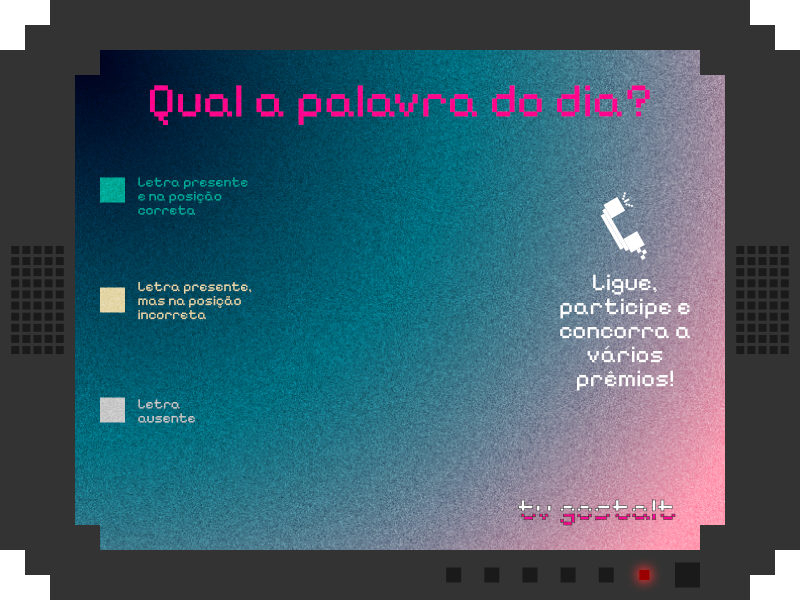
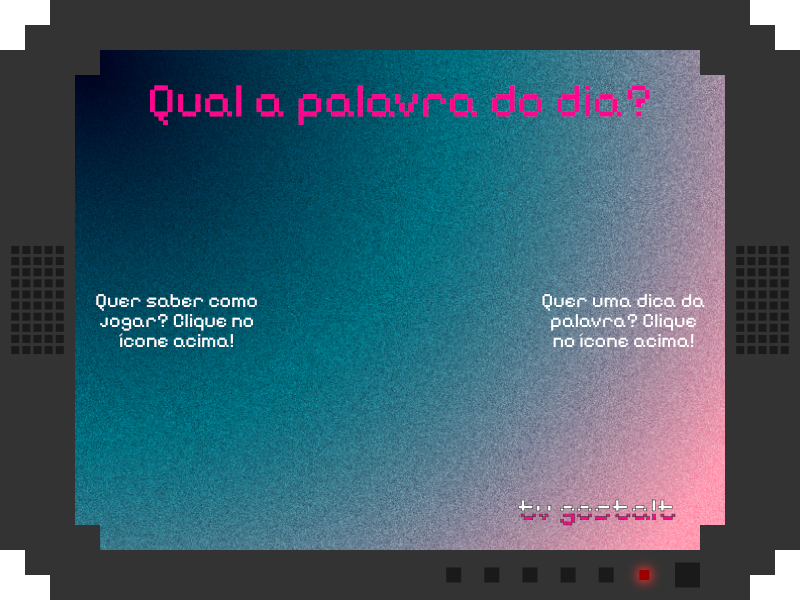
Info e dicas
Mudança na tela da TV para implementar botões de dica e ajuda, e adição de descrição para as palavras

diff --git a/termo.js b/termo.js
@@ -1,51 +1,56 @@
 let listaPalavras = [
-  "LIVRO",
-  "FESTA",
-  "NUVEM",
-  "PODER",
-  "VENTO",
-  "CANTO",
-  "VERDE",
-  "PEDRA",
-  "NOITE",
-  "PIANO",
-  "AMIGO",
-  "CALMO",
-  "RISCO",
-  "MUNDO",
-  "FARDO",
-  "BRAVO",
-  "SONHO",
-  "CAMPO",
-  "SOBRA",
-  "LINHA",
-  "FORTE",
-  "FLORA",
-  "ROCHA",
-  "PLANO",
-  "SOLAR",
-  "FOCOS",
-  "CARRO",
-  "VIDRO",
-  "PORTO",
-  "SALTO",
+  ["LIVRO", "Um objeto de leitura com páginas"],
+  ["FESTA", "Celebração com música e dança"],
+  ["NUVEM", "Massa de vapor d'água no céu"],
+  ["PODER", "Capacidade de influenciar ou controlar"],
+  ["VENTO", "Movimento natural do ar"],
+  ["CANTO", "Melodia vocal ou sons harmoniosos"],
+  ["VERDE", "Cor associada à natureza"],
+  ["PEDRA", "Mineral duro encontrado na terra"],
+  ["NOITE", "Período após o pôr do sol"],
+  ["PIANO", "Instrumento musical de teclas"],
+  ["AMIGO", "Pessoa com quem se tem afeto"],
+  ["CALMA", "Estado de tranquilidade ou serenidade"],
+  ["RISCO", "Possibilidade de perigo ou perda"],
+  ["MUNDO", "O planeta Terra e sua humanidade"],
+  ["FARDO", "Carga pesada ou responsabilidade"],
+  ["BRAVO", "Corajoso ou irado"],
+  ["SONHO", "Sequência de imagens durante o sono"],
+  ["CAMPO", "Área aberta de terra"],
+  ["LINHA", "Traço reto ou sequência de pontos"],
+  ["FORTE", "Resistente ou robusto"],
+  ["FLORA", "Conjunto de plantas de uma região"],
+  ["ROCHA", "Formação sólida e mineral"],
+  ["PLANO", "Projeto ou intenção organizada"],
+  ["SOLAR", "Relativo ao sol ou à energia do sol"],
+  ["FOCOS", "Pontos de concentração de luz ou atenção"],
+  ["CARRO", "Veículo motorizado com rodas"],
+  ["VIDRO", "Material transparente e frágil"],
+  ["PORTO", "Local seguro para embarcações"],
+  ["SALTO", "Ação de pular para cima ou para frente"],
 ];
 
 let indexSorteio = Math.floor(Math.random() * listaPalavras.length);
-const palavraSorteada = listaPalavras[indexSorteio];
+const palavraSorteada = listaPalavras[indexSorteio][0];
 
 let numTentativas;
 let tentativas = [];
 let mapaTentativas = []; // 0 = posição correte / 1 = posição errada / 2 = não existe
 let l;
 let mensagem = "";
-let fimDeJogo;
+let janelaModalInfo, janelaModalDica, fimDeJogo;
 
 let tentativa;
-let tv, fonte;
+let tv, infoIcon, dicaIcon, infoTela, dicaTela;
+let fonte;
 
 function preload() {
   tv = loadImage("imagens/tv.png");
+  infoIcon = loadImage("imagens/info.png");
+  dicaIcon = loadImage("imagens/dica.png");
+  infoTela = loadImage("imagens/telainfo.png");
+  dicaTela = loadImage("imagens/teladica.png");
+
   fonte = loadFont("fonte/PixelifySans-Regular.ttf");
 }
 
@@ -59,12 +64,15 @@ function setup() {
   l = 50;
   tentativa = [];
   numTentativas = 0;
+  janelaModalInfo = false;
+  janelaModalDica = false;
   fimDeJogo = false;
 }
 
 function draw() {
   //background(0, 0, 30);
   image(tv, 0, 0);
+
   noStroke();
 
   fill(255);
@@ -101,12 +109,36 @@ function draw() {
   fill(255);
   textSize(25);
   text(mensagem, width / 2, 470);
+
+  push();
+  imageMode(CENTER);
+  let iconOffset1 = sin(radians(frameCount * 2)) * 5;
+  image(
+    infoIcon,
+    176.5,
+    260,
+    infoIcon.width + iconOffset1,
+    infoIcon.height + iconOffset1
+  );
+
+  let iconOffset2 = cos(radians(frameCount * 2)) * 5;
+  image(
+    dicaIcon,
+    623.5,
+    260,
+    dicaIcon.width + iconOffset2,
+    dicaIcon.height + iconOffset2
+  );
+  pop();
+
+  telaAjuda();
+  telaDica();
 }
 
 // Enter = 13
 // Backspace = 8
 function keyPressed() {
-  if (!fimDeJogo) {
+  if (!fimDeJogo && !janelaModalInfo && !janelaModalDica) {
     if (key >= "a" && key <= "z" && tentativa.length < 5) {
       mensagem = "";
       tentativa.push(key.toUpperCase());
@@ -200,5 +232,53 @@ function verificarPalavra(palavra) {
     //tentativa = [];
 
     return false;
+  }
+}
+
+function mouseClicked() {
+  if (
+    mouseX > 176.5 - infoIcon.width / 2 &&
+    mouseX < 176.5 + infoIcon.width / 2 &&
+    mouseY > 260 - infoIcon.height / 2 &&
+    mouseY < 260 + infoIcon.height / 2
+  ) {
+    if (!janelaModalInfo) {
+      janelaModalInfo = true;
+    }
+  } else if (
+    mouseX > 623.5 - dicaIcon.width / 2 &&
+    mouseX < 623.5 + dicaIcon.width / 2 &&
+    mouseY > 260 - dicaIcon.height / 2 &&
+    mouseY < 260 + dicaIcon.height / 2
+  ) {
+    if (!janelaModalDica) {
+      janelaModalDica = true;
+    }
+  }
+
+  if (
+    (janelaModalInfo || janelaModalDica) &&
+    mouseX > 599 &&
+    mouseX < 616.5 &&
+    mouseY > 157.5 &&
+    mouseY < 174.5
+  ) {
+    janelaModalInfo = false;
+    janelaModalDica = false;
+    janelaModal = false;
+  }
+}
+
+function telaAjuda() {
+  if (janelaModalInfo) {
+    image(infoTela, 0, 0);
+  }
+}
+
+function telaDica() {
+  if (janelaModalDica) {
+    image(dicaTela, 0, 0);
+    let dica = listaPalavras[indexSorteio][1];
+    text(dica, width / 2, height / 2, 400);
   }
 }
